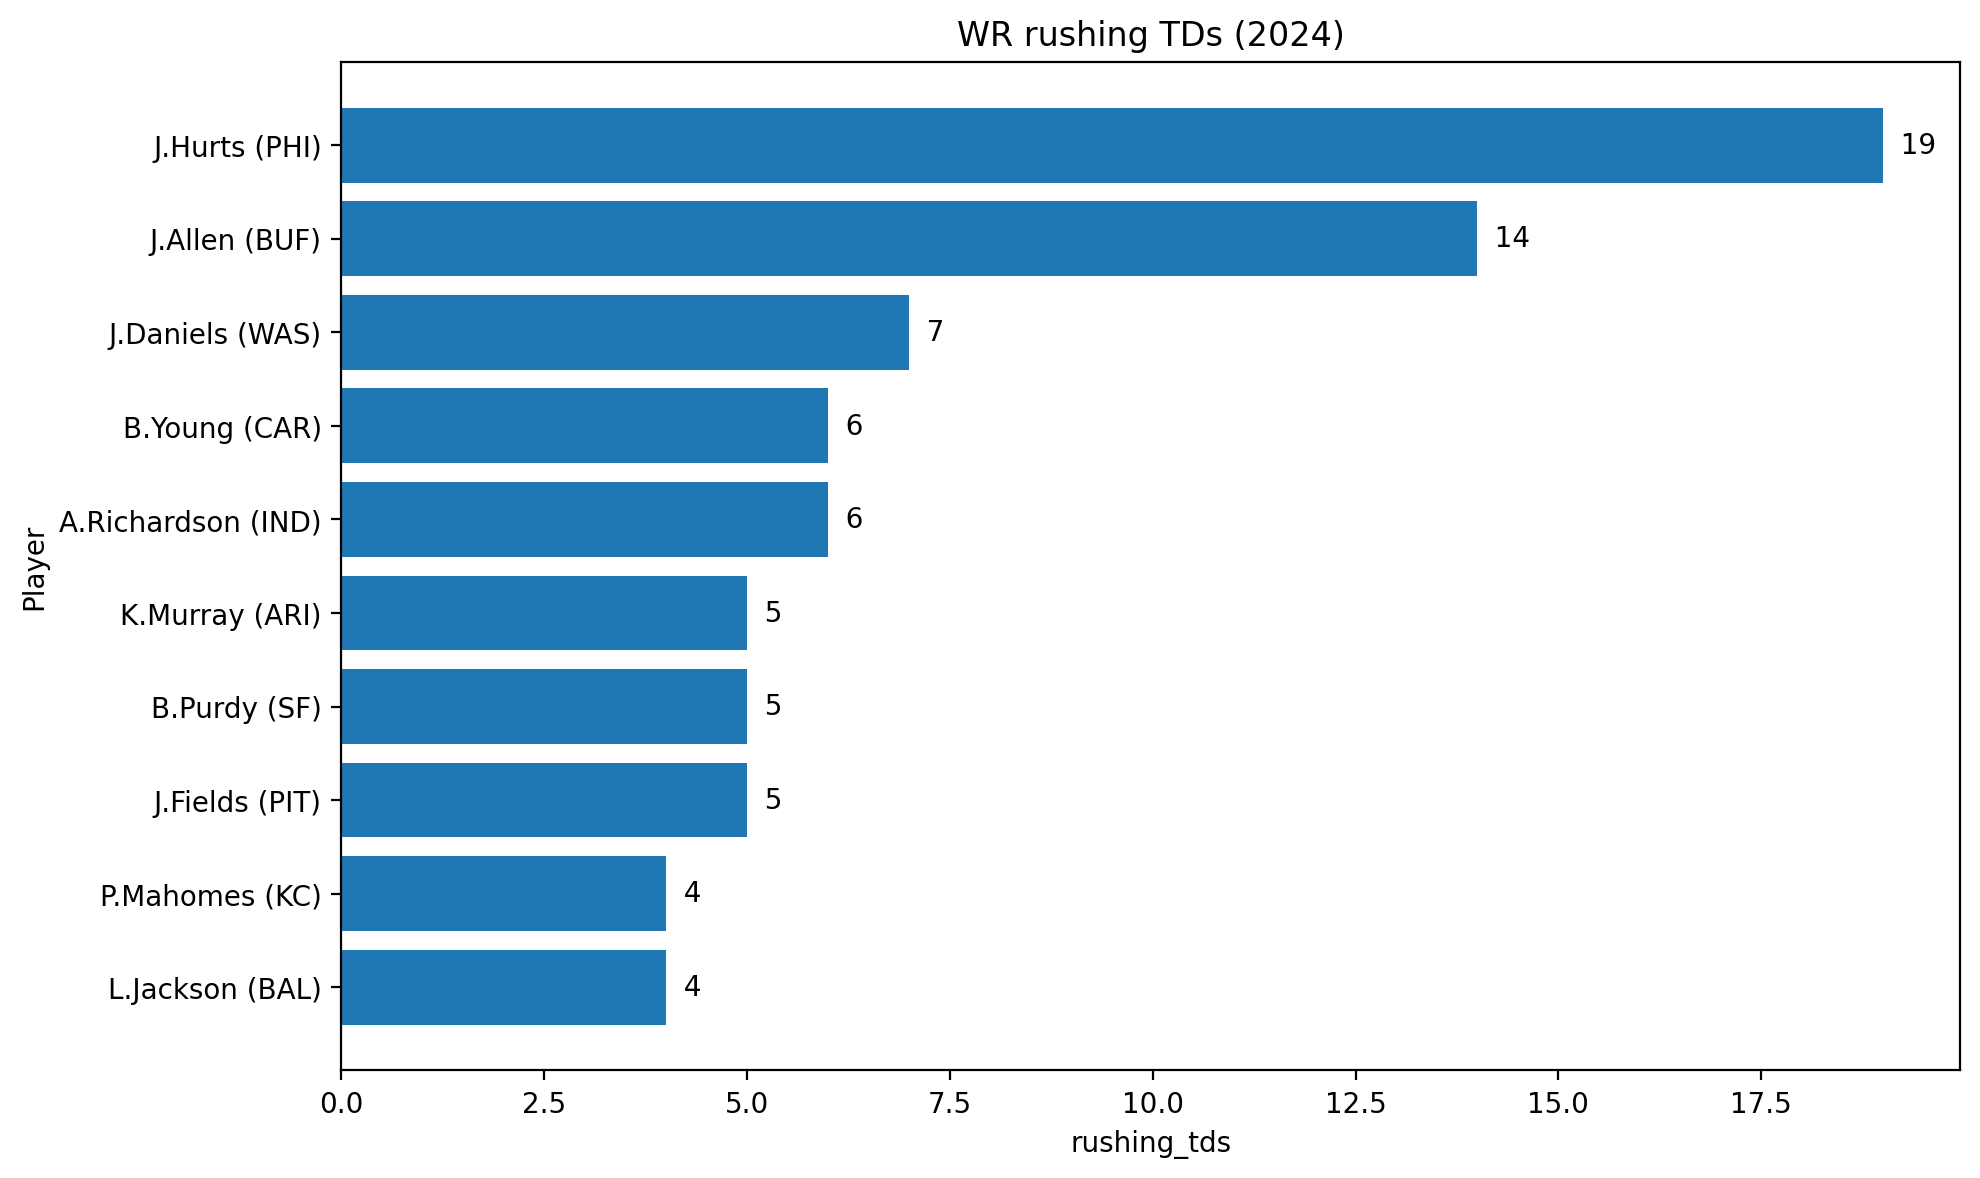
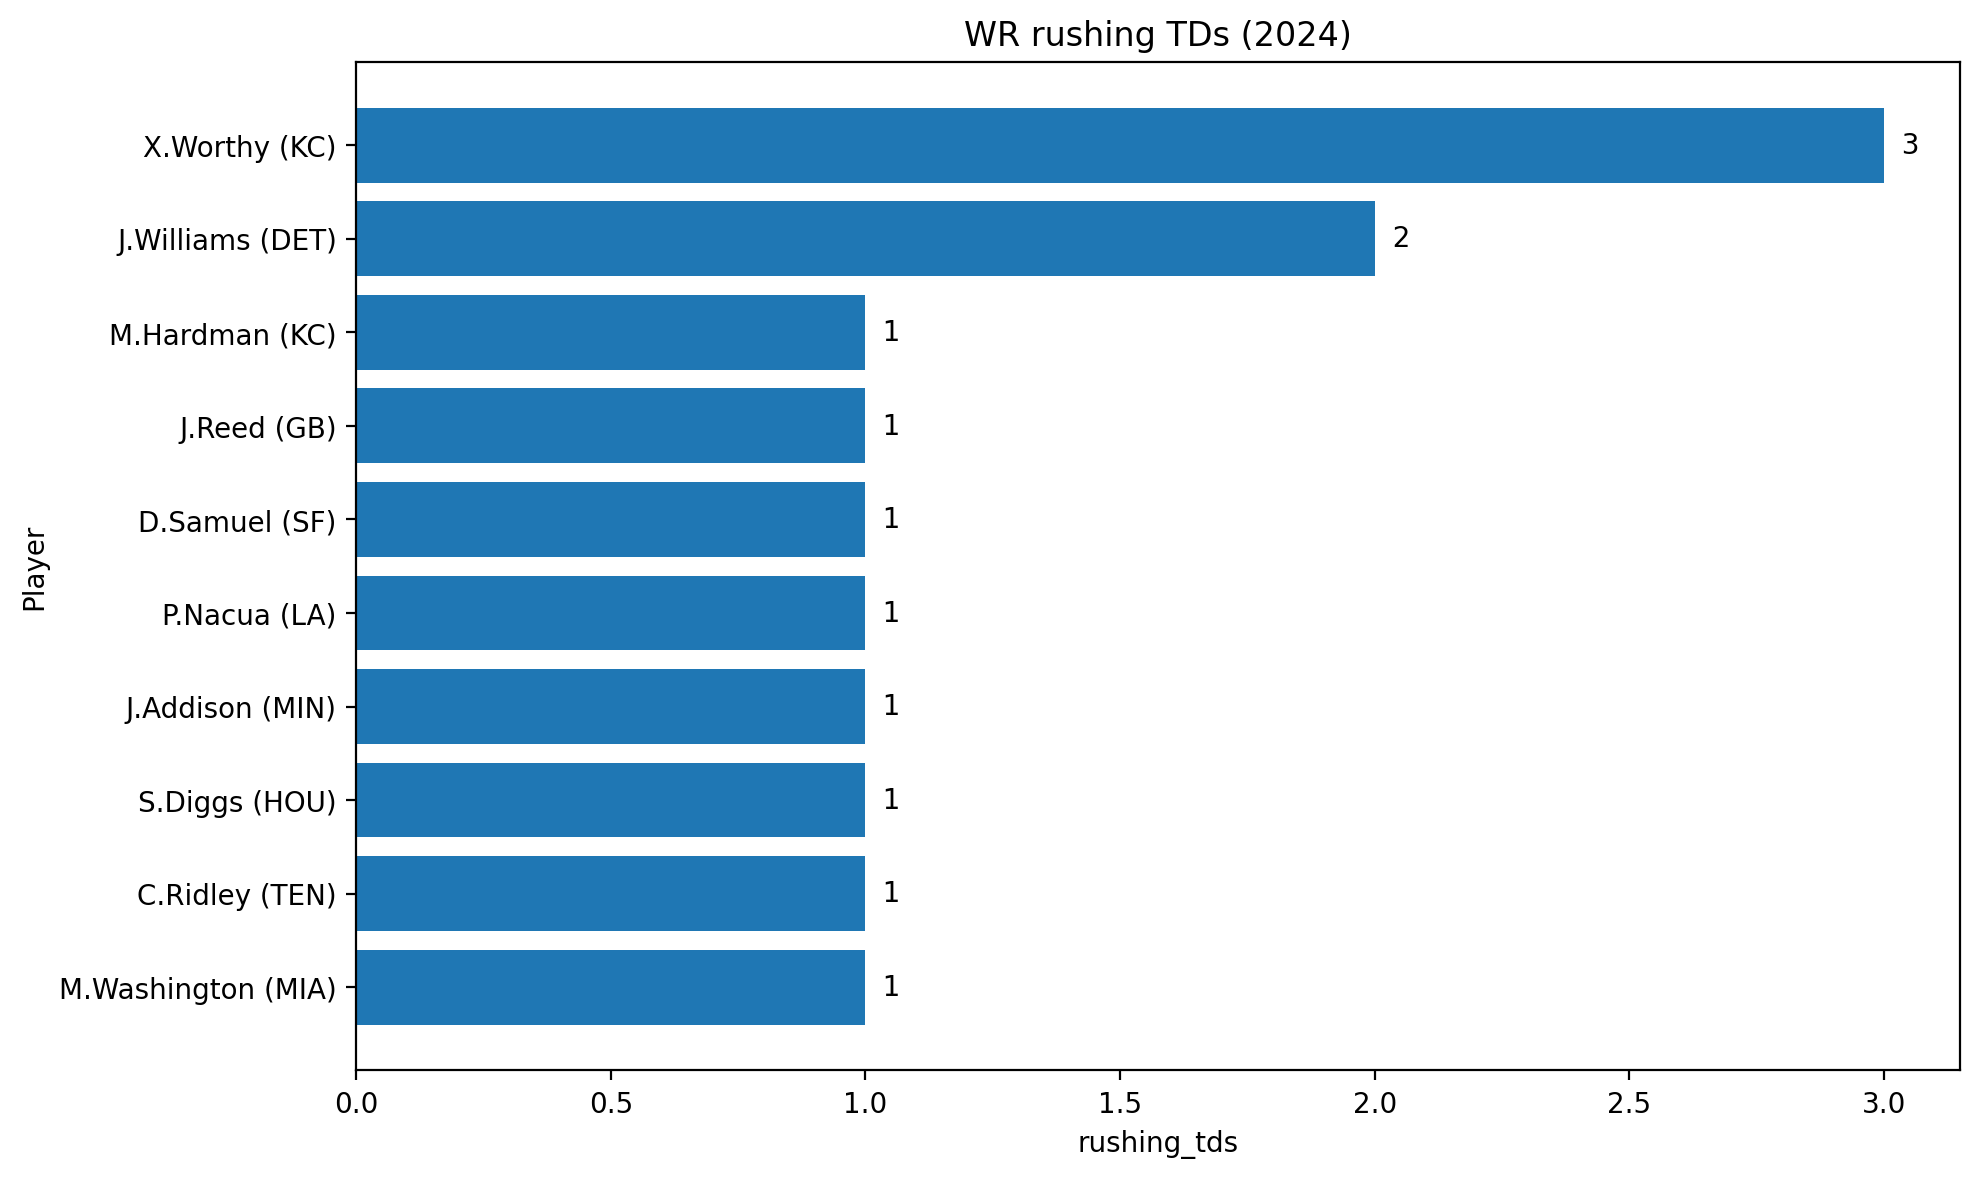
11/24 work

diff --git a/unit 3/researchAnalysis.py b/unit 3/researchAnalysis.py
@@ -1,0 +1,13 @@
+from helperLogic import get_player_stats_by_name, plot_weekly_player_stats,plot_player_stat, get_team_records, get_advanced_team_records, get_position_columns, get_season_Results_By_team , weeklyPlayerStats
+import matplotlib.pyplot as plt
+
+teamData = get_advanced_team_records(2024, 'BUF')
+print(teamData)
+
+teamRes = get_season_Results_By_team(2024, 'BUF')
+
+# 1 - The Division with the strongest defense based on yards allowed per game is the AFC West, This type of question is comparative. You need to comepare Teams stats and add it up in the divisions
+
+# 2 - The WR with the most Targets to Reception ratio is Amon Ra St Brown. To find this you need to once again compare player stats once again but this time for the WR catagory 
+
+# 3 - 

diff --git a/unit 2/exercise4.py b/unit 2/exercise4.py
@@ -1,7 +1,7 @@
 from helperFunctions import weeklyPlayerStats, plot_weekly_player_stats, plot_player_stat
 import matplotlib.pyplot as plt
 
-stats = weeklyPlayerStats(2024, "Qb")
+stats = weeklyPlayerStats(2024, "WR")
 print(stats)
 
 plot_player_stat(stats, stat="rushing_tds", top_n=10, title="WR rushing TDs (2024)", save_path="WR_rushing_tds_2024.png"  )
